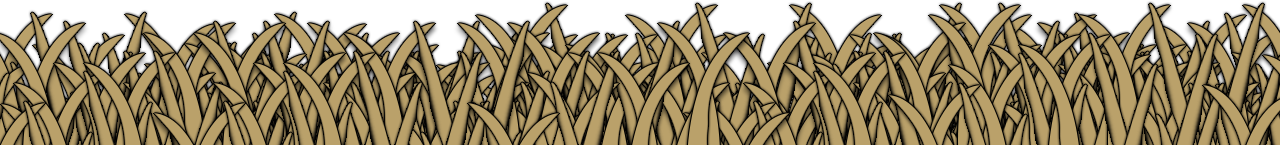
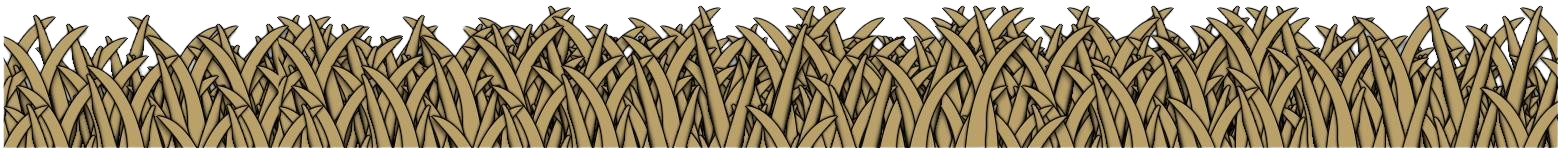
풀숲 흔들리는 효과 추가.

diff --git a/shoottheduck/src/main/java/kr/jbnu/se/std/Game.java b/shoottheduck/src/main/java/kr/jbnu/se/std/Game.java
@@ -42,6 +42,13 @@ public class Game {
     private int nextBossScore = 500; // 첫 보스 등장 점수
     private final int BOSS_SCORE_INTERVAL = 5000; // 이후 보스 등장 간격
     private int currentStage = 1;
+    private float grassPositionX = 0; // 풀의 시작 위치
+    private float grassSpeed = 0.1f; // 풀의 이동 속도
+    private int direction = 1; // 1이면 오른쪽으로, -1이면 왼쪽으로 이동
+    private int grassWidth; // 풀 이미지의 너비
+    private float maxDistance = 5; // 최대 이동 거리
+    private float startPositionX; // 시작 위치 저장용
+
 
     // 생성자: 레벨 선택과 초기화
     public Game() {
@@ -87,6 +94,8 @@ public class Game {
             sightImgMiddleWidth = sightImg.getWidth() / 2;
             sightImgMiddleHeight = sightImg.getHeight() / 2;
             goldenDuckImg = loadGoldenDuckImage(); // 황금오리 이미지 로드
+            grassWidth = grassImg.getWidth();
+            startPositionX = grassPositionX; // 시작 위치 저장
         } catch (IOException ex) {
             Logger.getLogger(Game.class.getName()).log(Level.SEVERE, null, ex);
         }
@@ -107,6 +116,15 @@ public class Game {
     }
 
     public void UpdateGame(long gameTime, Point mousePosition) {
+
+        grassPositionX += grassSpeed * direction; // 방향에 따라 위치 변경
+
+        // 이동 거리 체크
+        float distanceMoved = Math.abs(grassPositionX - startPositionX);
+        if (distanceMoved >= maxDistance) {
+            direction *= -1; // 방향을 반전시킴
+            startPositionX = grassPositionX; // 새로운 시작 위치로 업데이트
+        }
 
         if (player.getCurrentScore() >= nextBossScore && !bossSpawned) {
             spawnBossDuck();
@@ -217,7 +235,7 @@ public class Game {
         if (goldenDuck != null) {
             goldenDuck.Draw(g2d);
         }
-        g2d.drawImage(grassImg, 0, Framework.frameHeight - grassImg.getHeight(),
+        g2d.drawImage(grassImg, (int) grassPositionX, Framework.frameHeight - grassImg.getHeight(),
                 Framework.frameWidth, grassImg.getHeight(), null);
         g2d.drawImage(sightImg, mousePosition.x - sightImgMiddleWidth,
                 mousePosition.y - sightImgMiddleHeight, null);
